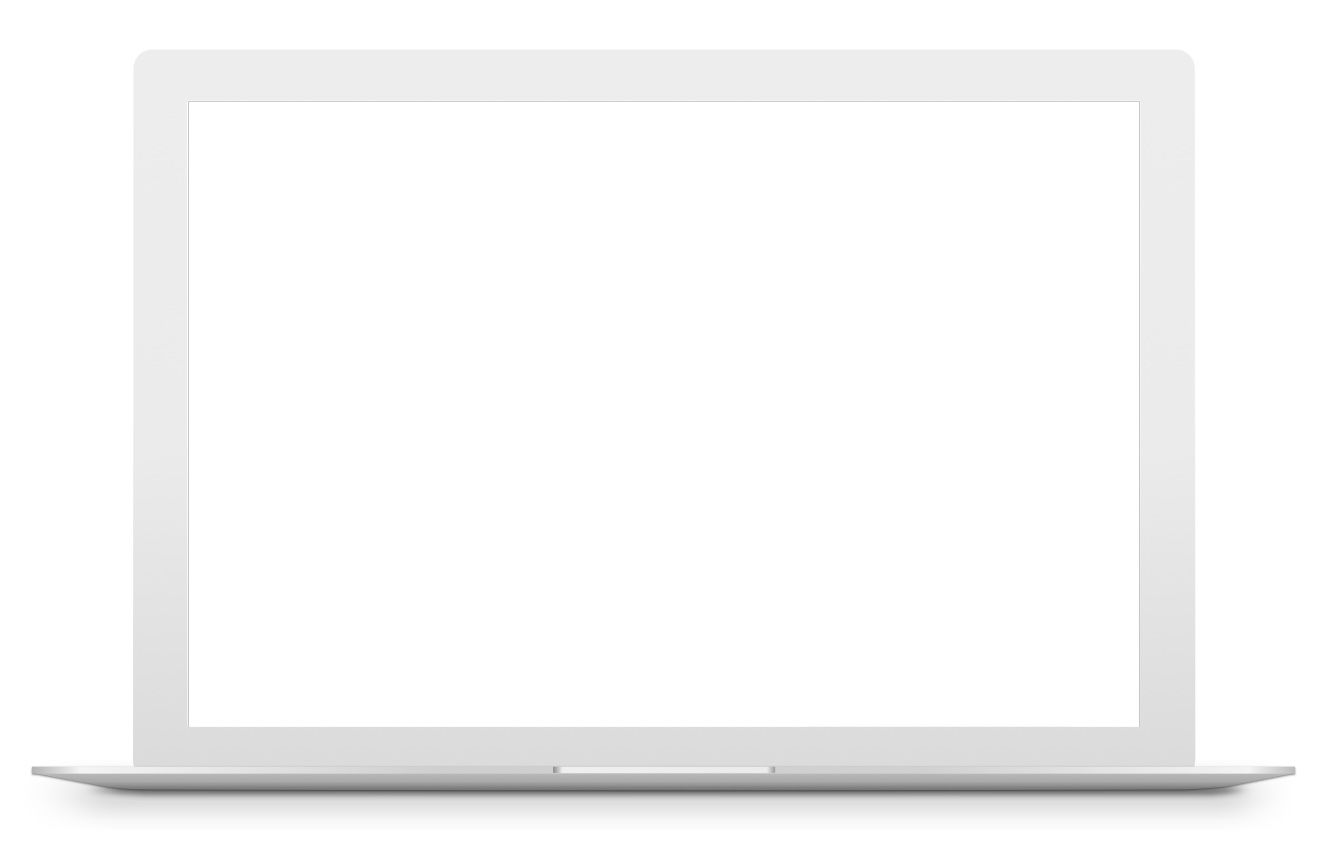
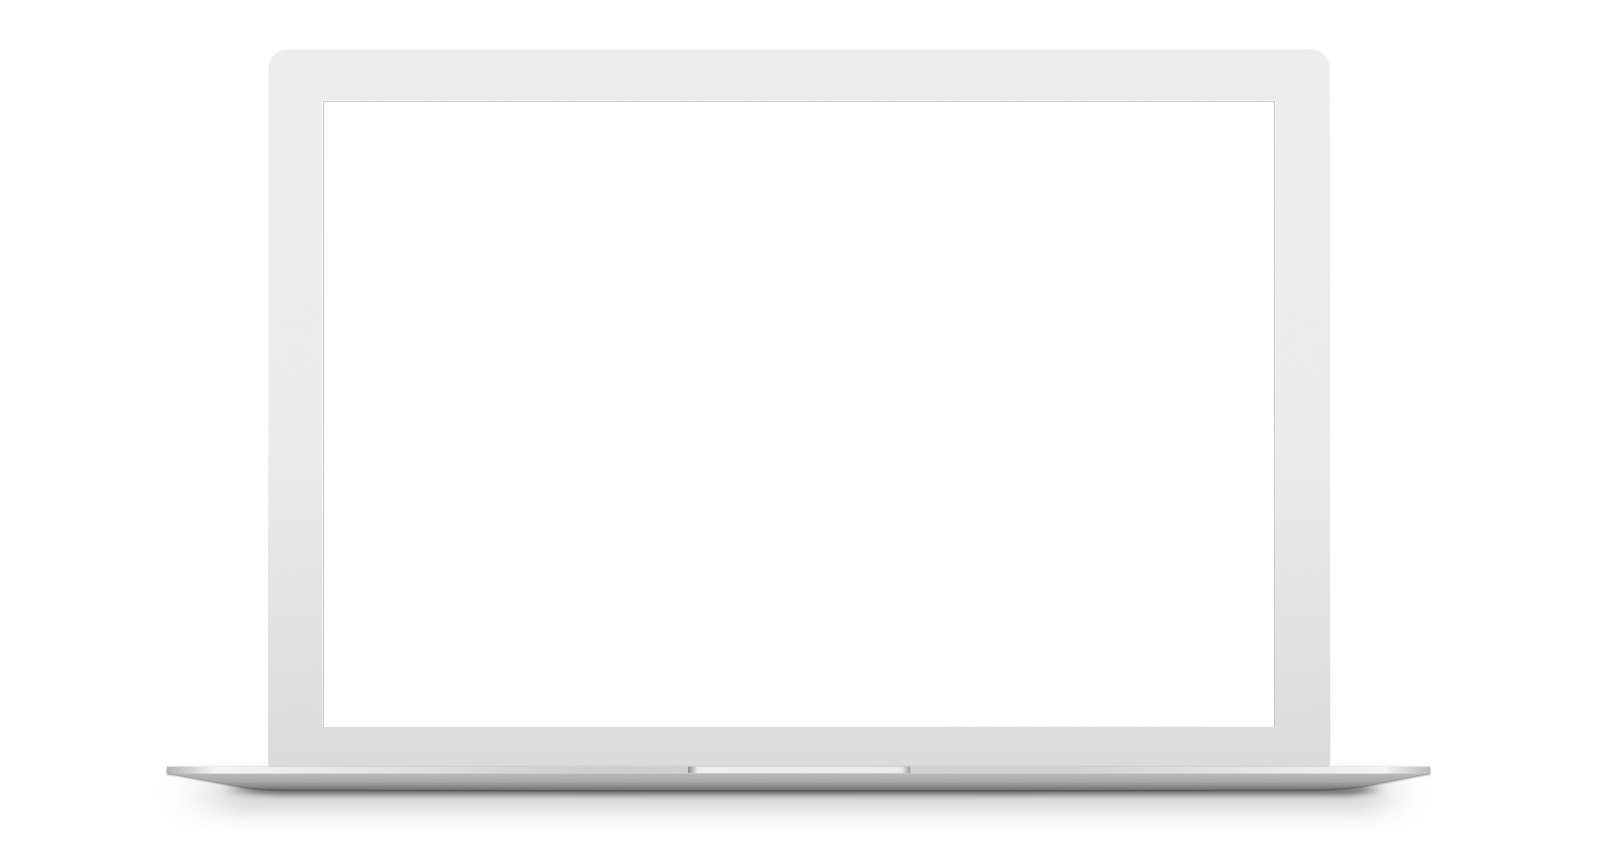
Refactors swap video overlaps for casestudies

Changed region(s): [[0.7707, 0.5917, 0.9865, 0.9343], [0.0308, 0.5917, 0.2158, 0.9343]]

diff --git a/src/components/CaseStudy/CaseStudySection.jsx b/src/components/CaseStudy/CaseStudySection.jsx
@@ -27,25 +27,40 @@ class CaseStudySection extends React.Component {
   }
 
   render () {
-    const { caseStudyContent, scrollContainer } = this.props;
+    const { scrollContainer } = this.props;
+    const { video, images, copy, containerClass, classes, imgAlt } = this.props.caseStudyContent;
+    const videoOverlay = {
+      iphone: {
+        def: require('assets/img/case-studies/iphone.png'),
+        tlg: require('assets/img/case-studies/iphone-tlg.png'),
+        mlg: require('assets/img/case-studies/iphone-mlg.png')
+      },
+      ipad: {
+        def: require('assets/img/case-studies/ipad.png'),
+        tlg: require('assets/img/case-studies/ipad-tlg.png'),
+        mlg: require('assets/img/case-studies/ipad-mlg.png')
+      },
+      laptop: {
+        def: require('assets/img/case-studies/laptop.png'),
+        tlg: require('assets/img/case-studies/laptop-tlg.png'),
+        mlg: require('assets/img/case-studies/laptop-mlg.png')
+      }
+    };
+
     return (
-      <div className={ caseStudyContent.classes && caseStudyContent.classes }>
-        { caseStudyContent.video &&
-          <div className="layout--relative">
+      <div className={ classes && classes }>
+        { video &&
+          <div className={ `layout--relative video--${video.type}` }>
             <Builder scrollContainer={ scrollContainer }>
               <picture className="video-image">
-                <img src={ caseStudyContent.video.videoImage } className="full-image" />
+                <source srcSet={ videoOverlay[video.type].def } media="(min-width: 1040px)" />
+                <source srcSet={ videoOverlay[video.type].tlg } media="(min-width: 767px)" />
+                <img src={ videoOverlay[video.type].mlg } className="full-image" alt={ video.type } />
               </picture>
-              <div className="video-container" style={ { maxWidth: caseStudyContent.video.maxWidth, padding: caseStudyContent.video.videoPadding } } >
-                <video id={ `caseStudyVideo-${caseStudyContent.video.id}` }
-                  loop
-                  muted
-                  playsInline
-                  poster={ caseStudyContent.video.videoPoster }
-                  style={ { margin: caseStudyContent.video.videoMargin } }
-                >
-                  <source src={ caseStudyContent.video.url } media="screen and (max-width:768px)" type="video/mp4" />
-                  <source src={ caseStudyContent.video.url_sm } media="screen and (max-width:767px)" type="video/mp4" />
+              <div className="video-container">
+                <video id={ `caseStudyVideo-${video.id}` } loop muted playsInline>
+                  <source src={ video.url } media="screen and (max-width:768px)" type="video/mp4" />
+                  <source src={ video.url_sm } media="screen and (max-width:767px)" type="video/mp4" />
                   Your browser does not support the video tag.
                 </video>
               </div>
@@ -53,31 +68,31 @@ class CaseStudySection extends React.Component {
           </div>
         }
 
-        { caseStudyContent.images &&
+        { images &&
           <Builder scrollContainer={ scrollContainer }>
             <picture>
-              <source srcSet={ caseStudyContent.images.imgDef } media="(min-width: 1040px)" />
-              <source srcSet={ caseStudyContent.images.imgTlg } media="(min-width: 767px)" />
-              <img src={ caseStudyContent.images.imgMlg } className="full-image" style={ { marginBottom: '1px' } } alt={ caseStudyContent.imgAlt } />
+              <source srcSet={ images.imgDef } media="(min-width: 1040px)" />
+              <source srcSet={ images.imgTlg } media="(min-width: 767px)" />
+              <img src={ images.imgMlg } className="full-image" style={ { marginBottom: '1px' } } alt={ imgAlt } />
             </picture>
           </Builder>
         }
 
-        { caseStudyContent.copy &&
+        { copy &&
           <Builder scrollContainer={ scrollContainer }>
-            <div className={ `row py10 py5--mlg ${caseStudyContent.containerClass}` }>
-              { caseStudyContent.copy.map((copy, index) => (
+            <div className={ `row py10 py5--mlg ${containerClass}` }>
+              { copy.map((copyItem, index) => (
                 <div key={ index }>
-                  { copy.src && <img src={ copy.src } /> }
-                  { copy.url && copy.text
-                    ? <a href={ copy.url } target="_blank" className={ copy.classes && copy.classes }>{ copy.text }</a>
-                    : <div className={ copy.classes && copy.classes }>{ copy.text }</div> }
+                  { copyItem.src && <img src={ copyItem.src } /> }
+                  { copyItem.url && copyItem.text
+                    ? <a href={ copyItem.url } target="_blank" className={ copyItem.classes && copyItem.classes }>{ copyItem.text }</a>
+                    : <div className={ copyItem.classes && copyItem.classes }>{ copyItem.text }</div> }
 
-                  { copy.linkText &&
-                    <div className={ copy.classes && copy.classes }>
-                      <span>{ copy.linkText.startText }</span>
-                      <span><a href={ copy.linkText.link } target="_blank">{ copy.linkText.linkText }</a></span>
-                      <span>{ copy.linkText.endText }</span>
+                  { copyItem.linkText &&
+                    <div className={ copyItem.classes && copyItem.classes }>
+                      <span>{ copyItem.linkText.startText }</span>
+                      <span><a href={ copyItem.linkText.link } target="_blank">{ copyItem.linkText.linkText }</a></span>
+                      <span>{ copyItem.linkText.endText }</span>
                     </div>
                   }
 
@@ -92,7 +107,8 @@ class CaseStudySection extends React.Component {
 };
 
 CaseStudySection.propTypes = {
-  caseStudyContent: PropTypes.object
+  caseStudyContent: PropTypes.object,
+  scrollContainer: PropTypes.node
 };
 
 export default CaseStudySection;

diff --git a/src/data/caseStudies.js b/src/data/caseStudies.js
@@ -127,10 +127,7 @@ export const caseStudies = [
           id: 'norton',
           url: 'https://s3-us-west-1.amazonaws.com/rs-website-cdn/video/norton_950x624.mp4',
           url_sm: 'https://s3-us-west-1.amazonaws.com/rs-website-cdn/video/norton_950x624_sm.mp4',
-          maxWidth: '71.4%',
-          videoImage: require('assets/img/case-studies/laptop.png'),
-          videoPadding: '7.6% 0 10.7%',
-          videoPoster: require('assets/img/home/Norton/norton-video-arrow.jpg')
+          type: 'laptop'
         },
         copy: [
           {
@@ -208,10 +205,7 @@ export const caseStudies = [
           id: 'nexus',
           url: 'https://s3-us-west-1.amazonaws.com/rs-website-cdn/video/nexus_n7_950x624.mp4',
           url_sm: 'https://s3-us-west-1.amazonaws.com/rs-website-cdn/video/nexus_n7_950x624.mp4_sm',
-          maxWidth: '71.9%',
-          videoImage: require('assets/img/case-studies/laptop.png'),
-          videoPadding: '7.6% 0 10.7%',
-          videoPoster: require('assets/img/home/Nexus/nexus-video-arrow.jpg')
+          type: 'laptop'
         },
         copy: [
           {
@@ -291,10 +285,7 @@ export const caseStudies = [
           id: 'yumavore',
           url: 'https://s3-us-west-1.amazonaws.com/rs-website-cdn/video/yumavore_768x1024.mp4',
           url_sm: 'https://s3-us-west-1.amazonaws.com/rs-website-cdn/video/yumavore_768x1024_sm.mp4',
-          maxWidth: '44%',
-          videoImage: require('assets/img/case-studies/ipad.png'),
-          videoPadding: '11% 0',
-          videoPoster: require('assets/img/home/Yumavore/yumavore-video-arrow.jpg')
+          type: 'ipad'
         },
         copy: [
           {
@@ -392,11 +383,7 @@ export const caseStudies = [
           id: 'five',
           url: 'https://s3-us-west-1.amazonaws.com/rs-website-cdn/video/five_374x666.mp4',
           url_sm: 'https://s3-us-west-1.amazonaws.com/rs-website-cdn/video/five_374x666_sm.mp4',
-          maxWidth: '28.5%',
-          videoImage: require('assets/img/case-studies/iphone.png'),
-          videoPadding: '17% 0 15.3%',
-          videoMargin: '-10.6%',
-          videoPoster: require('assets/img/home/Five/five-video-arrow.jpg')
+          type: 'iphone'
         },
         copy: [
           {
@@ -425,11 +412,7 @@ export const caseStudies = [
           id: 'five2',
           url: 'https://s3-us-west-1.amazonaws.com/rs-website-cdn/video/five_blinds_640x1136.mp4',
           url_sm: 'https://s3-us-west-1.amazonaws.com/rs-website-cdn/video/five_blinds_640x1136.mp4',
-          maxWidth: '28.5%',
-          videoImage: require('assets/img/case-studies/iphone.png'),
-          videoPadding: '17% 0 15.3%',
-          videoMargin: '-10.6%',
-          videoPoster: require('assets/img/home/Five/five-video-arrow.jpg')
+          type: 'iphone'
         },
         copy: [
           {
@@ -466,7 +449,7 @@ export const caseStudies = [
         }]
       }
     ]
-  },
+  }
 
   // norton campfire
   // {

diff --git a/src/components/CaseStudy/styles.scss b/src/components/CaseStudy/styles.scss
@@ -238,3 +238,41 @@
     padding-bottom: 13.5rem;
   }
 }
+
+.video--laptop {
+  .video-container {
+    padding: 6.2% 0 8%;
+    max-width: 60%;
+  }
+}
+
+.video--ipad {
+  .video-container {
+    max-width: 36.5%;
+    padding: 9.1% 0;
+    // media queries
+    @include breakpoint($tablet-lg) {
+      max-width: 42.5%;
+    }
+    @include breakpoint($mobile-lg) {
+      max-width: 57.5%;
+      padding: 14.1% 0;
+    }
+  }
+}
+
+.video--iphone {
+  .video-container {
+    max-width: 23.5%;
+    padding: 11.6% 0;
+    // media queries
+    @include breakpoint($tablet-lg) {
+      max-width: 27%;
+      padding: 13% 0;
+    }
+    @include breakpoint($mobile-lg) {
+      max-width: 36.7%;
+      padding: 17.8% 0;
+    }
+  }
+}
